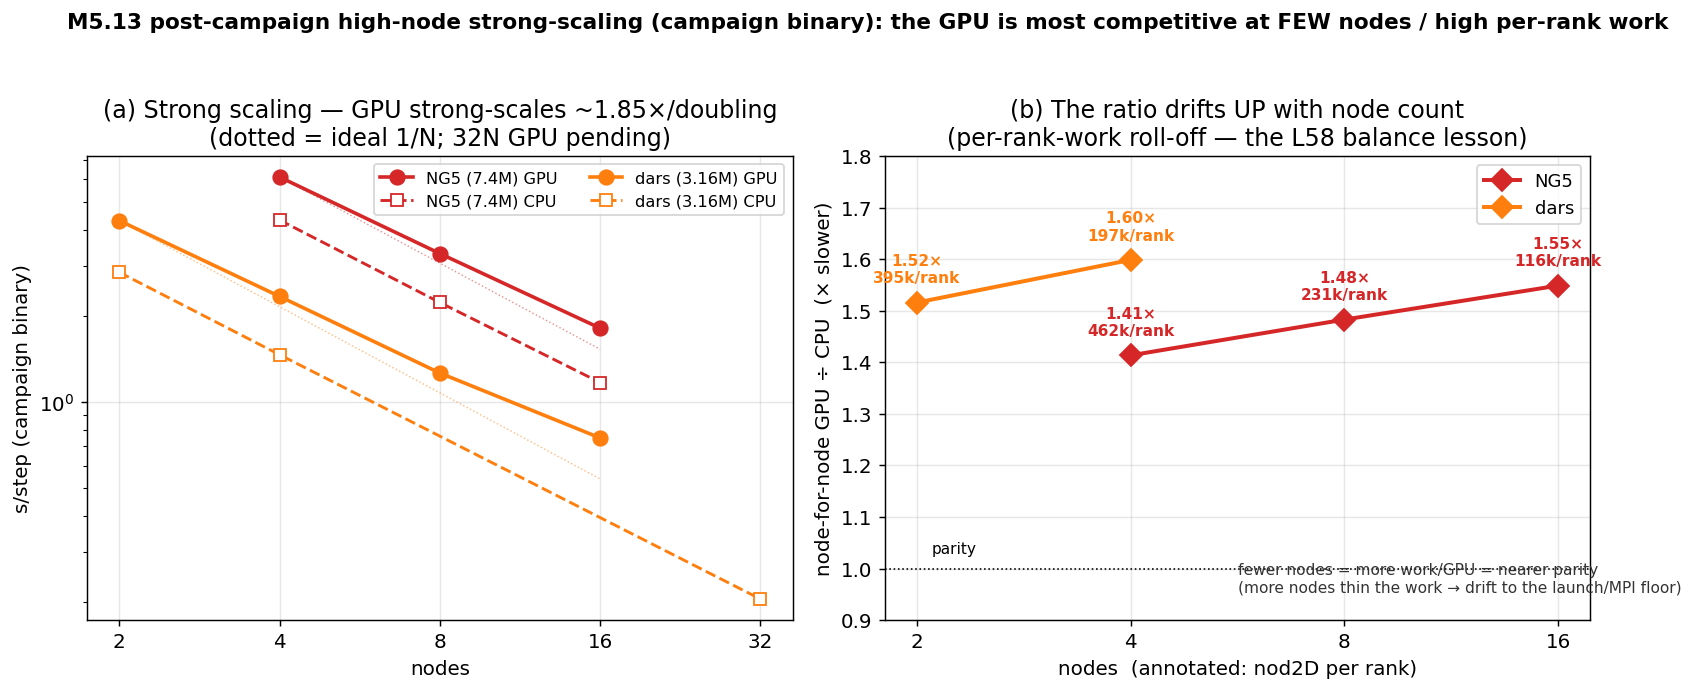
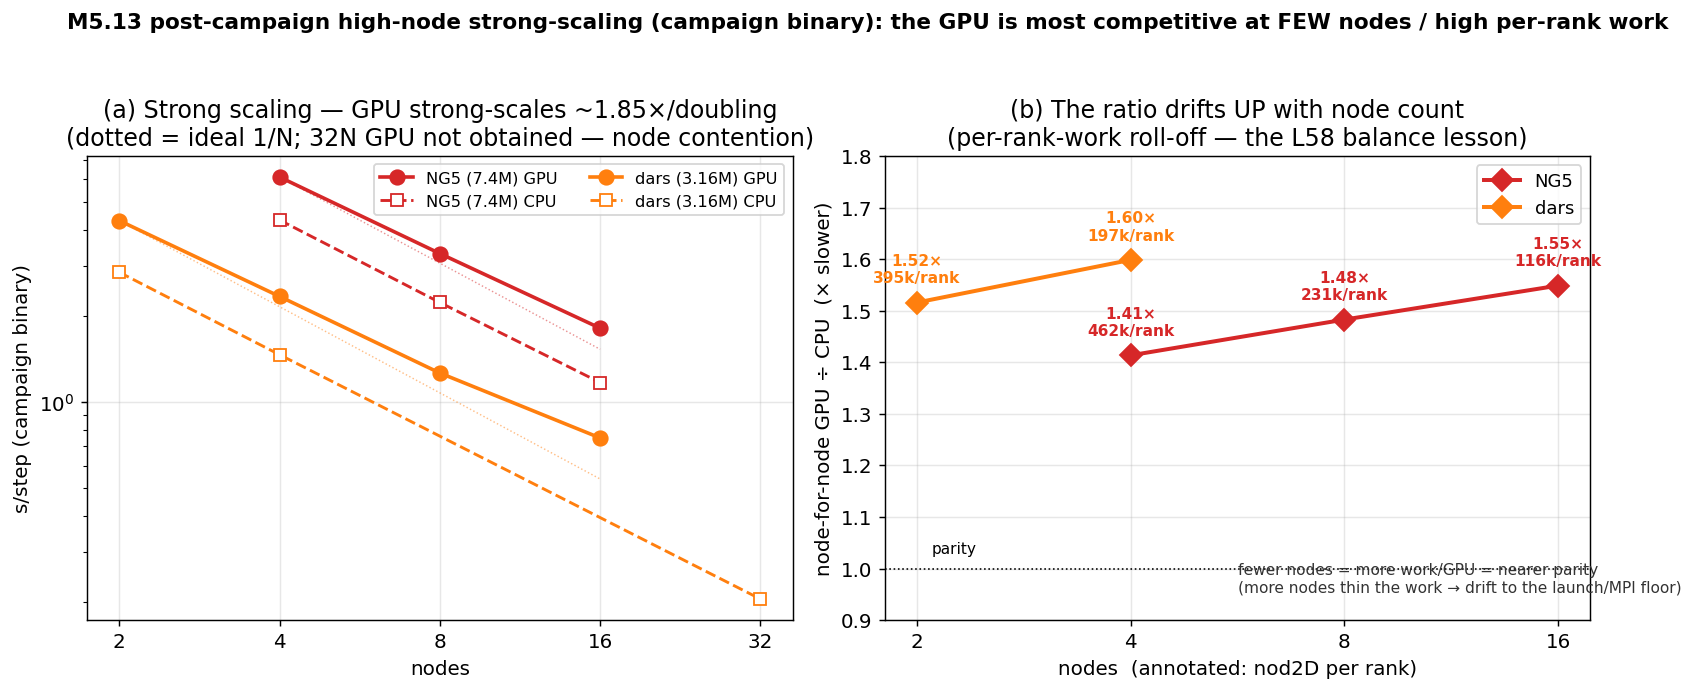
docs(M5.13): close out high-node sweep — 32N GPU did not schedule (cancelled); note M5.14 superseded
- The two 32N GPU runs (128 A100 each) never scheduled over ~5h (partition contended/DRAINED);
  cancelled. dars 32N CPU (dist_4096=0.205) did land. M5.13 8/16N characterization stands.
- Honest forward-note: the 'drift toward launch/MPI floor' reading (+ L58 ~1.4x asymptote) was
  SUPERSEDED by M5.14 — S was still a hidden full-field PCIe chunk; flipping it (Lever A) crossed
  parity (NG5 4N 0.879x). The M5.13 sweep is the characterization that MOTIVATED M5.14.

Changed region(s): [[0.0307, 0.1823, 0.4911, 0.2127]]

diff --git a/scripts/plot_hinode_scaling.py b/scripts/plot_hinode_scaling.py
@@ -42,7 +42,7 @@ for M, name, col in ((NG5, "NG5 (7.4M)", "#d62728"), (DARS, "dars (3.16M)", "#ff
 axA.set_xscale("log", base=2); axA.set_yscale("log")
 axA.set_xticks([2, 4, 8, 16, 32]); axA.set_xticklabels([2, 4, 8, 16, 32])
 axA.set_xlabel("nodes"); axA.set_ylabel("s/step (campaign binary)")
-axA.set_title("(a) Strong scaling — GPU strong-scales ~1.85×/doubling\n(dotted = ideal 1/N; 32N GPU pending)")
+axA.set_title("(a) Strong scaling — GPU strong-scales ~1.85×/doubling\n(dotted = ideal 1/N; 32N GPU not obtained — node contention)")
 axA.legend(fontsize=9, ncol=2)
 
 # (b) node-for-node ratio vs nodes (drift)

diff --git a/docs/SCALING_NG5.md b/docs/SCALING_NG5.md
@@ -293,16 +293,24 @@ binary strong-scales AND quantifies the per-rank-work drift the data/compute-bal
 |   4   | 6.12    | 4.330   | **1.41×** |   462k     | 2.342    | 1.465    | **1.60×**  |   197k     |
 |   8   | 3.307   | 2.230   | **1.48×** |   231k     | 1.264    | (no dist_1024) | —    |    99k     |
 |  16   | 1.813   | 1.171   | **1.55×** |   116k     | 0.750    | (no dist_2048) | —    |    49k     |
-|  32   | *pending* (no NG5 dist_4096) |  |  |  58k  | *pending* | 0.2051 | *pending* |    25k     |
+|  32   | *n/sched*¹ | (no dist_4096) | — | 58k | *n/sched*¹ | 0.2051 | — | 25k |
+
+¹ The two 32-node GPU runs (dist_128 = 128 A100) never scheduled over ~5 h of polling (the GPU
+partition was contended/reserved; one's nodes were `DOWN/DRAINED`) — **cancelled**. The 32N CPU
+(dars dist_4096) did land. Not re-chased: M5.14 (below) superseded the M5.13 binary anyway.
 
 - **GPU strong-scaling is near-ideal**: NG5 1.85× (4→8N), 1.82× (8→16N); dars 1.84/1.85/1.69× (2→4→8→16N)
   — ~91–93 % parallel efficiency per doubling, easing only at 16N where the columns thin out.
 - **The node-for-node GPU/CPU ratio drifts UP with node count** (NG5 1.41× → 1.48× → 1.55× as
-  nod2D/rank falls 462k → 231k → 116k). This is the **L58 data/compute-balance lesson as a strong-scaling
-  curve**: adding nodes spreads the work thinner per GPU, so the ratio creeps from 1.41× toward the
-  launch/MPI floor. The corollary is a **production rule: the GPU is most competitive at the FEWEST nodes
-  (highest per-rank work) that fit A100-80GB memory** — over-decomposing wastes the GPU's strength.
+  nod2D/rank falls 462k → 231k → 116k): adding nodes spreads the work thinner per GPU. The
+  **production rule stands: the GPU is most competitive at the FEWEST nodes (highest per-rank work)
+  that fit A100-80GB memory** — over-decomposing wastes the GPU's strength.
   (dars 8/16N + NG5 32N lack a node-for-node CPU partition, so those are GPU strong-scaling only.)
+- ⚠ **The "drift toward a launch/MPI floor" reading (and L58's ~1.4× asymptote) was SUPERSEDED by
+  M5.14 (next section):** these M5.13-binary points still had **S as a hidden full-field PCIe chunk**;
+  flipping it (Lever A) dropped NG5 4N to 0.879× — *below* parity. So the residual was still mostly
+  reducible PCIe, not the launch floor. This section is the (valid) M5.13-binary characterization that
+  *motivated* M5.14; for the live ratio see § M5.14.
 - Figure: `docs/figures/scaling_hinode_m513.png` (`scripts/plot_hinode_scaling.py`).
 
 ### M5.14 — Lever A finished the residency: PARITY CROSSED (2026-05-30)
